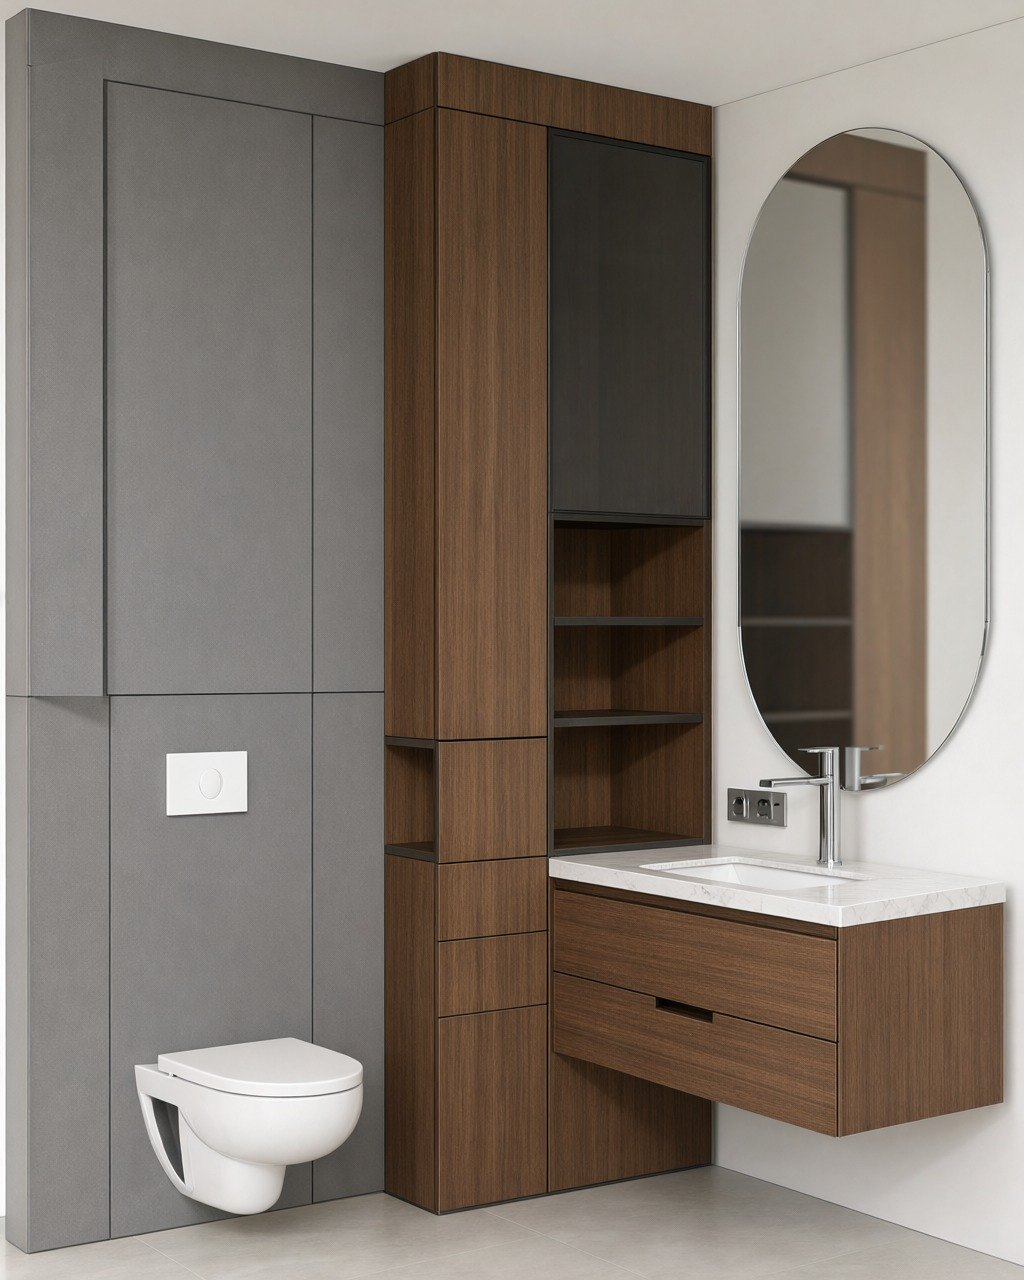
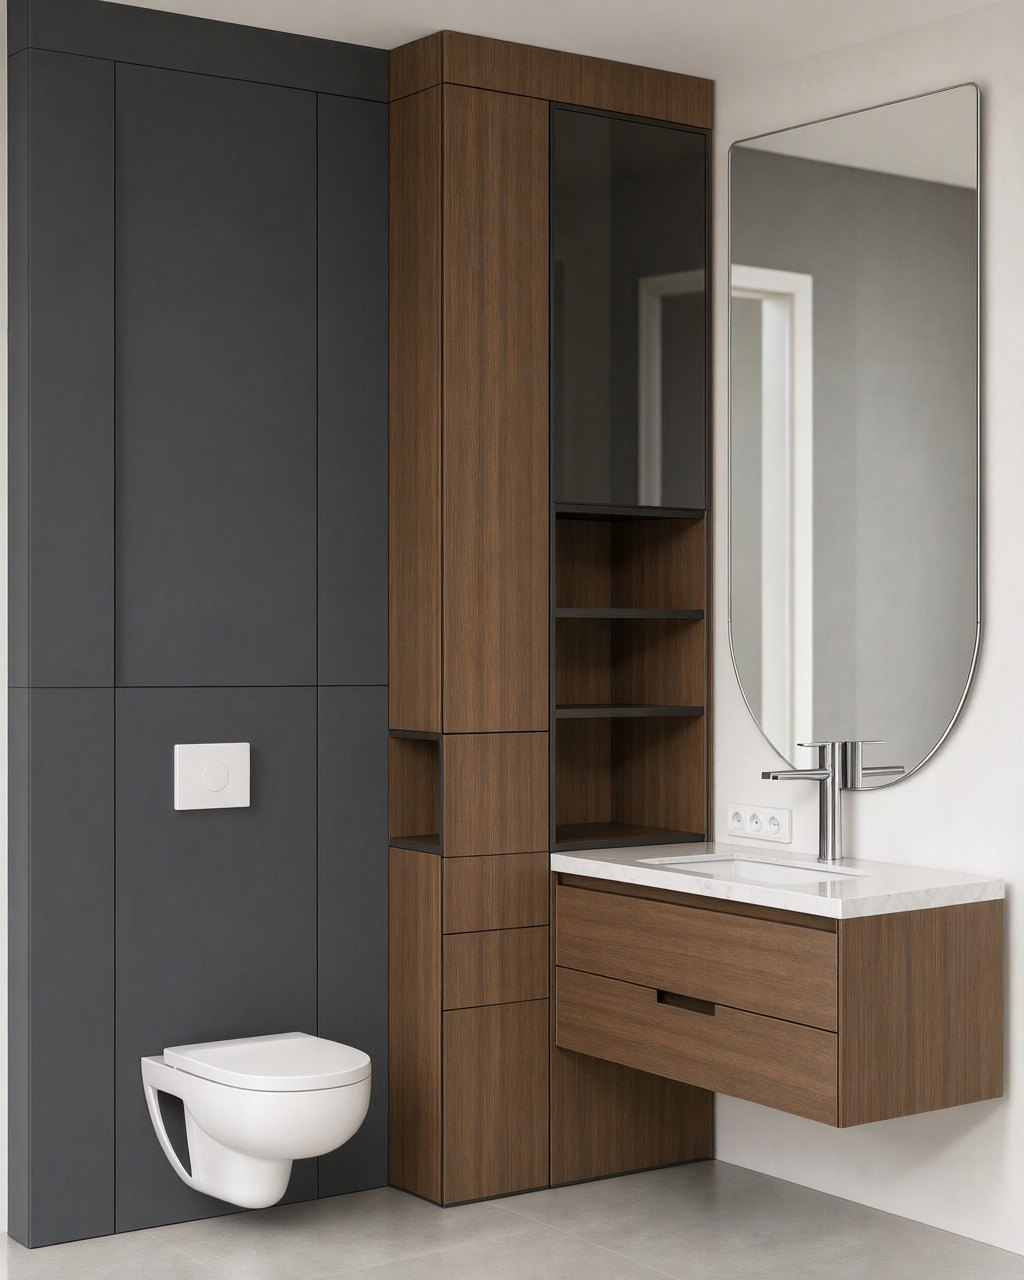
Correct bathroom mirror shape and Diamant grey tone

diff --git a/assets/data.js b/assets/data.js
@@ -319,7 +319,7 @@ window.PROJECT = {
      "src": "assets/img/renders/enhanced/vannaya-v2.jpg",
      "width": 1024,
      "height": 1280,
-     "bytes": 193377,
+     "bytes": 217208,
      "caption": ""
     }
    ],
